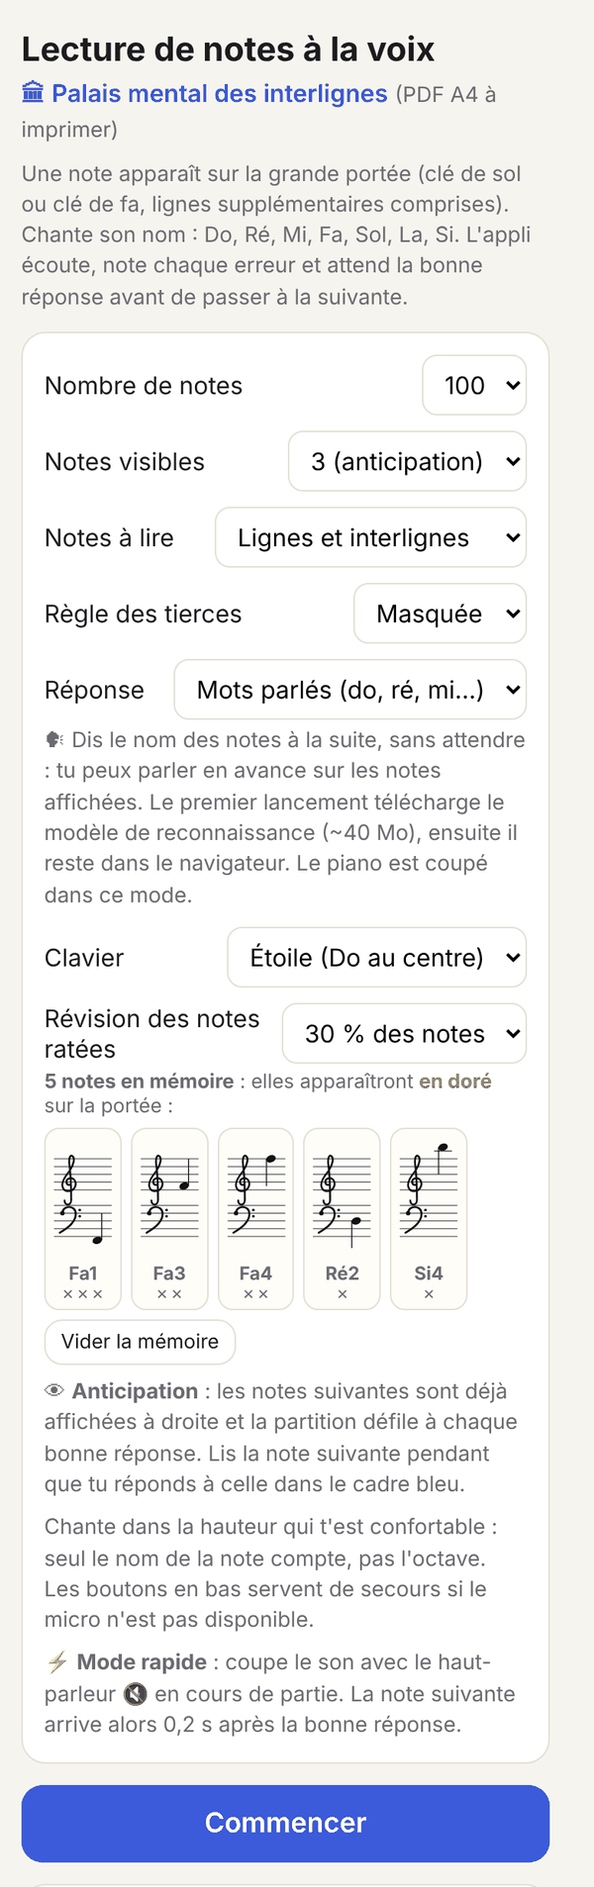
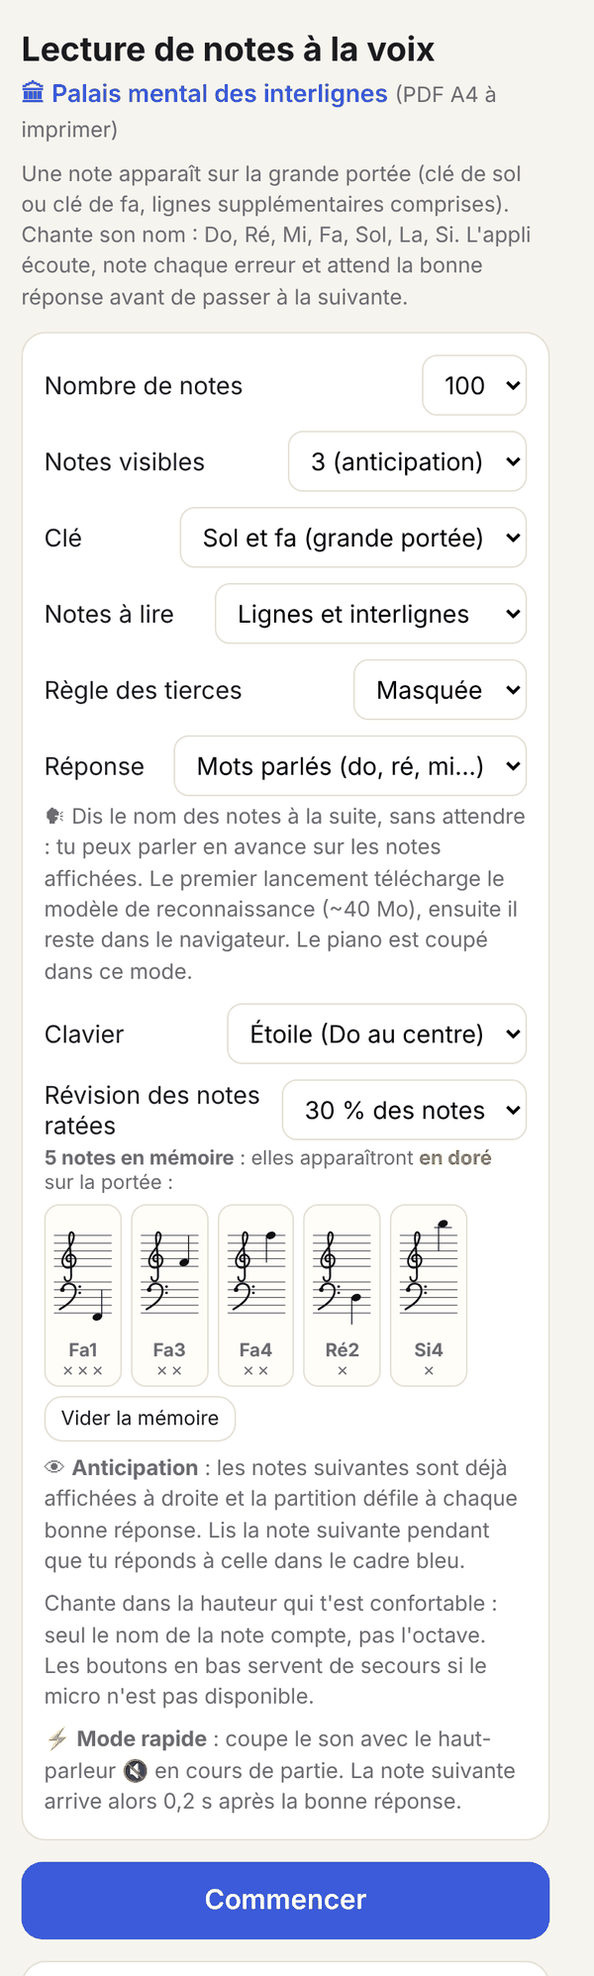
sol uniquement, fa uniquement ou les deux

Changed region(s): [[0.03, 0.0, 0.93, 0.99], [0.84, 0.495, 0.9, 0.5569]]

diff --git a/index.html b/index.html
@@ -51,6 +51,7 @@
   .tally b{color:var(--ink)}
   svg#staff{width:100%;height:auto;max-height:46vh;display:block;background:#fffdf8;border:1px solid var(--line);border-radius:16px}
   .ln{stroke:#2a2a2a;stroke-width:1.3}
+  .ln.dim{stroke:#d4d0c4}
   .nt{fill:#111;stroke:none}
   .stem{stroke:#111;stroke-width:1.8}
   .led{stroke:#111;stroke-width:1.5}
@@ -157,6 +158,14 @@
           <option value="2">2 (anticipation)</option>
           <option value="3">3 (anticipation)</option>
           <option value="4">4 (anticipation)</option>
+        </select>
+      </div>
+      <div class="row" style="margin-top:10px">
+        <label for="clef">Clé</label>
+        <select id="clef">
+          <option value="both">Sol et fa (grande portée)</option>
+          <option value="sol">Clé de sol seulement</option>
+          <option value="fa">Clé de fa seulement</option>
         </select>
       </div>
       <div class="row" style="margin-top:10px">
@@ -315,10 +324,12 @@ function ledgers(d){
 const isLine = d => Math.abs(d) % 2 === 0;
 // pos : 'all' (lignes et interlignes), 'lines' ou 'spaces'
 const posOk = (d, pos) => !pos || pos === 'all' || (pos === 'lines') === isLine(d);
-function pickNote(prevStep, rnd, pos){
+// clefSel : 'both' (grande portée), 'sol' ou 'fa'
+const clefOk = (clef, sel) => !sel || sel === 'both' || clef === sel;
+function pickNote(prevStep, rnd, pos, clefSel){
   rnd = rnd || Math.random;
   for(;;){
-    const clef = rnd() < 0.5 ? 'sol' : 'fa';
+    const clef = (clefSel === 'sol' || clefSel === 'fa') ? clefSel : (rnd() < 0.5 ? 'sol' : 'fa');
     const lo = clef==='sol' ? 0 : -14, hi = clef==='sol' ? 14 : 0;
     const d = lo + Math.floor(rnd()*(hi-lo+1));
     if(stepOf(d) !== prevStep && posOk(d, pos)) return {clef, d};
@@ -445,7 +456,7 @@ function makeWordStream(stableMs){
 (function(){
   const $ = id => document.getElementById(id);
   const REQ = 5;           // 5 mesures stables de 50 ms = 250 ms de note tenue
-  const HKEY = 'solfege.v1.games', SKEY = 'solfege.v1.sound', LKEY = 'solfege.v1.look', RKEY = 'solfege.v1.review', RPKEY = 'solfege.v1.reviewPct', KKEY = 'solfege.v1.kbd', AKEY = 'solfege.v1.answer', PKEY = 'solfege.v1.pos', RUKEY = 'solfege.v1.ruler';
+  const HKEY = 'solfege.v1.games', SKEY = 'solfege.v1.sound', LKEY = 'solfege.v1.look', RKEY = 'solfege.v1.review', RPKEY = 'solfege.v1.reviewPct', KKEY = 'solfege.v1.kbd', AKEY = 'solfege.v1.answer', PKEY = 'solfege.v1.pos', RUKEY = 'solfege.v1.ruler', CKEY = 'solfege.v1.clef';
   let S = null;            // session en cours
   let ctx = null, an = null, buf = null, stream = null, timer = null, clockTimer = null;
   let soundOn = true;
@@ -754,31 +765,35 @@ function makeWordStream(stableMs){
   }
 
   // Règle des tierces : la chaîne do mi sol si ré fa la do posée sur les lignes (ou les interlignes)
-  function rulerSvg(x, pos){
+  function rulerSvg(x, pos, clefSel){
     const onSpaces = pos === 'spaces';
     let r = `<rect x="${x}" y="8" width="34" height="220" rx="7" fill="#f3efe3" stroke="#e0d9c6"/>`;
     for(let d = -14; d <= 14; d++){
       if(isLine(d) === onSpaces) continue;
       const nm = NAMES[stepOf(d)], isDo = stepOf(d) === 0, yy = yOf(d);
+      if((clefSel === 'sol' && d < 0) || (clefSel === 'fa' && d > 0)) continue;   // seulement la clé travaillée
       r += `<line x1="${x+3}" x2="${x+7}" y1="${yy}" y2="${yy}" stroke="${isDo ? '#d62828' : '#b9b19c'}" stroke-width="1"/>`;
       r += `<text x="${x+20}" y="${yy+3.3}" text-anchor="middle" font-size="9.5" font-weight="${isDo ? 700 : 600}" fill="${isDo ? '#d62828' : '#3d3a33'}" font-family="system-ui,-apple-system,sans-serif">${nm}</text>`;
     }
     return r;
   }
 
-  function drawStaticStaff(look, ruler, pos){
+  function drawStaticStaff(look, ruler, pos, clefSel){
     ruler = ruler || 'off';
+    const dimSol = clefSel === 'fa', dimFa = clefSel === 'sol';   // la portée non travaillée est estompée
     let g = look > 1 ? `<rect id="cursor" x="${posX(0,look)-17}" y="6" width="34" height="224" rx="9"/>` : '';
     const X1 = 18, X2 = 302;
     [2,4,6,8,10,-2,-4,-6,-8,-10].forEach(d => {
-      g += `<line class="ln" x1="${X1}" x2="${X2}" y1="${yOf(d)}" y2="${yOf(d)}"/>`;
+      const dim = d > 0 ? dimSol : dimFa;
+      g += `<line class="ln${dim ? ' dim' : ''}" x1="${X1}" x2="${X2}" y1="${yOf(d)}" y2="${yOf(d)}"/>`;
     });
     g += `<line class="ln" x1="${X1}" x2="${X1}" y1="${yOf(10)}" y2="${yOf(-10)}" style="stroke-width:2"/>`;
     g += `<line class="ln" x1="${X2}" x2="${X2}" y1="${yOf(10)}" y2="${yOf(2)}"/><line class="ln" x1="${X2}" x2="${X2}" y1="${yOf(-2)}" y2="${yOf(-10)}"/>`;
-    g += `<g transform="translate(46 ${yOf(4)})"><path d="${TREBLE}" fill="none" stroke="#111" stroke-width="3.4" stroke-linecap="round" stroke-linejoin="round"/></g>`;
-    g += `<g transform="translate(42 ${yOf(-4)})"><path d="${BASS}" fill="none" stroke="#111" stroke-width="4" stroke-linecap="round"/><circle cx="-6" cy="0" r="5" fill="#111"/><circle cx="33" cy="-7" r="2.6" fill="#111"/><circle cx="33" cy="7" r="2.6" fill="#111"/></g>`;
+    g += `<g transform="translate(46 ${yOf(4)})"><path d="${TREBLE}" fill="none" stroke="${dimSol ? '#d4d0c4' : '#111'}" stroke-width="3.4" stroke-linecap="round" stroke-linejoin="round"/></g>`;
+    const cb = dimFa ? '#d4d0c4' : '#111';
+    g += `<g transform="translate(42 ${yOf(-4)})"><path d="${BASS}" fill="none" stroke="${cb}" stroke-width="4" stroke-linecap="round"/><circle cx="-6" cy="0" r="5" fill="${cb}"/><circle cx="33" cy="-7" r="2.6" fill="${cb}"/><circle cx="33" cy="7" r="2.6" fill="${cb}"/></g>`;
     const W = ruler === 'off' ? 320 : 358, off = ruler === 'left' ? 38 : 0;
-    const rul = ruler === 'left' ? rulerSvg(2, pos) : ruler === 'right' ? rulerSvg(322, pos) : '';
+    const rul = ruler === 'left' ? rulerSvg(2, pos, clefSel) : ruler === 'right' ? rulerSvg(322, pos, clefSel) : '';
     $('staff').setAttribute('viewBox', `0 0 ${W} 236`);
     $('staff').innerHTML = rul + `<g transform="translate(${off} 0)">` + g + `<g id="note" class="${look>1?'anim':''}"></g></g>`;
   }
@@ -803,7 +818,7 @@ function makeWordStream(stableMs){
   function pushNote(){
     const last = S.queue.length ? S.queue[S.queue.length-1].note : S.prevNote;
     const prevStep = last ? stepOf(last.d) : -1;
-    const note = (S.plan.has(S.issued) && pickReview(S.mem, prevStep)) || pickNote(prevStep, null, S.pos);
+    const note = (S.plan.has(S.issued) && pickReview(S.mem, prevStep)) || pickNote(prevStep, null, S.pos, S.clef);
     const el = document.createElementNS('http://www.w3.org/2000/svg', 'g');
     el.innerHTML = noteSvg(note);
     const q = {note, el};
@@ -1003,7 +1018,7 @@ function makeWordStream(stableMs){
     const secs = recent.map(g => Math.round(g.avg/100)/10);
     const best = Math.max(...H.map(g => g.pct));
     const rows = H.slice(-8).reverse().map(g =>
-      `<tr><td>${fmtDate(g.t)}${g.fast ? ' ⚡' : ''}${(g.look||1) > 1 ? ' 👁' + g.look : ''}${g.rp ? ' 🔁' : ''}${g.ans === 'words' ? ' 🗣' : ''}${g.pos === 'lines' ? ' ≡' : g.pos === 'spaces' ? ' ◌' : ''}${g.ruler && g.ruler !== 'off' ? ' 📏' : ''}</td><td class="n">${g.n}</td><td class="n"><b>${g.pct} %</b></td><td class="n">${fmtTime(g.ms)}</td><td class="n">${(g.avg/1000).toFixed(1)} s</td></tr>`).join('');
+      `<tr><td>${fmtDate(g.t)}${g.fast ? ' ⚡' : ''}${(g.look||1) > 1 ? ' 👁' + g.look : ''}${g.rp ? ' 🔁' : ''}${g.ans === 'words' ? ' 🗣' : ''}${g.pos === 'lines' ? ' ≡' : g.pos === 'spaces' ? ' ◌' : ''}${g.ruler && g.ruler !== 'off' ? ' 📏' : ''}${g.clef === 'sol' ? ' (sol)' : g.clef === 'fa' ? ' (fa)' : ''}</td><td class="n">${g.n}</td><td class="n"><b>${g.pct} %</b></td><td class="n">${fmtTime(g.ms)}</td><td class="n">${(g.avg/1000).toFixed(1)} s</td></tr>`).join('');
     el.innerHTML = `
       <h2>Mes progrès</h2>
       <div class="mute">${H.length} partie${H.length>1?'s':''} · meilleur score : <b>${best} %</b></div>
@@ -1011,7 +1026,7 @@ function makeWordStream(stableMs){
       ${spark(pcts, 0, 100, ' %', '#3b5bdb')}
       <div class="charttitle">Temps moyen par note (plus bas = mieux)</div>
       ${spark(secs, 0, Math.max(...secs)*1.2 || 1, ' s', '#1a9b4b')}
-      <div class="mute" style="font-size:12px;margin-top:8px">⚡ son coupé · 👁 anticipation · 🔁 révision des notes ratées · 🗣 mots parlés · ≡ lignes seules · ◌ interlignes seuls · 📏 règle</div>
+      <div class="mute" style="font-size:12px;margin-top:8px">⚡ son coupé · 👁 anticipation · 🔁 révision des notes ratées · 🗣 mots parlés · ≡ lignes seules · ◌ interlignes seuls · 📏 règle · (sol)/(fa) une seule clé</div>
       <div class="tw"><table><tr><th>Date</th><th class="n">Notes</th><th class="n">Score</th><th class="n">Durée</th><th class="n">Moy.</th></tr>${rows}</table></div>
       <div style="margin-top:10px"><button class="ghost small" id="clear">Effacer l'historique</button></div>`;
     el.hidden = false;
@@ -1029,7 +1044,7 @@ function makeWordStream(stableMs){
     const res = S.res;
     const fast = res.length > 0 && S.fastN*2 >= res.length;   // majorité des notes jouées sans son
     const look = S.look || 1;
-    const ans = S.mode || 'sing', wMiss = S.wMiss || 0, pos = S.pos || 'all', ruler = S.ruler || 'off';
+    const ans = S.mode || 'sing', wMiss = S.wMiss || 0, pos = S.pos || 'all', ruler = S.ruler || 'off', clef = S.clef || 'both';
     const rp = S.rp || 0, memBefore = S.mem || [];
     S = null;
     stopAudio();
@@ -1044,12 +1059,12 @@ function makeWordStream(stableMs){
     }
     const p = pct(st.first, st.n);
     const hist = loadHist();
-    const sameMode = hist.filter(g => !!g.fast === fast && (g.look||1) === look && (g.ans === 'words') === (ans === 'words') && (g.pos || 'all') === pos);   // même mode : son/rapide et nombre de notes visibles
+    const sameMode = hist.filter(g => !!g.fast === fast && (g.look||1) === look && (g.ans === 'words') === (ans === 'words') && (g.pos || 'all') === pos && (g.clef || 'both') === clef);   // même mode : son/rapide et nombre de notes visibles
     const prev = sameMode.length ? sameMode[sameMode.length-1] : null;
     const bestBefore = sameMode.length ? Math.max(...sameMode.map(g => g.pct)) : -1;
-    const modeTxt = (pos === 'lines' ? ' sur les lignes' : pos === 'spaces' ? ' sur les interlignes' : '') + (ans === 'words' ? ' aux mots parlés' : '') + (fast ? ' en mode rapide' : '') + (look > 1 ? ` en anticipation (${look} notes)` : '');
+    const modeTxt = (clef === 'sol' ? ' en clé de sol' : clef === 'fa' ? ' en clé de fa' : '') + (pos === 'lines' ? ' sur les lignes' : pos === 'spaces' ? ' sur les interlignes' : '') + (ans === 'words' ? ' aux mots parlés' : '') + (fast ? ' en mode rapide' : '') + (look > 1 ? ` en anticipation (${look} notes)` : '');
     let saved = false;
-    if(st.n >= 5){ hist.push({t:Date.now(), n:st.n, first:st.first, errs:st.errs, ms:Math.round(elapsed), avg:Math.round(st.avgMs), pct:p, fast, look, ans, wMiss, pos, ruler, rp, rvN:st.byKind[0].n, rvFirst:st.byKind[0].first}); saved = saveHist(hist); }
+    if(st.n >= 5){ hist.push({t:Date.now(), n:st.n, first:st.first, errs:st.errs, ms:Math.round(elapsed), avg:Math.round(st.avgMs), pct:p, fast, look, ans, wMiss, pos, ruler, clef, rp, rvN:st.byKind[0].n, rvFirst:st.byKind[0].first}); saved = saveHist(hist); }
     // mémoire des notes ratées (mise à jour même si l'option est désactivée)
     const upd = updateMemory(memBefore, res);
     saveMem(upd.mem);
@@ -1123,7 +1138,8 @@ function makeWordStream(stableMs){
     const look = Math.min(4, Math.max(1, parseInt($('look').value, 10) || 1));
     const rp = Math.max(0, Math.min(50, parseInt($('review').value, 10) || 0));
     const pos = $('pos').value, ruler = $('ruler').value;
-    const mem = loadMem().filter(m => posOk(m.d, pos));      // révision : seulement les positions travaillées
+    const clef = $('clef').value;
+    const mem = loadMem().filter(m => posOk(m.d, pos) && clefOk(m.clef, clef));   // révision : seulement ce qui est travaillé
     let mode = $('answer').value;
     $('startMsg').textContent = '';
     unlockAudio();                 // doit être appelé directement dans le geste de l'utilisateur
@@ -1154,11 +1170,11 @@ function makeWordStream(stableMs){
     try{ localStorage.setItem(AKEY, $('answer').value); }catch(e){}
     S = {n, mic, mode, wq:[], wIgnore:false, wMiss:0, draining:false, res:[], cur:null, totalErr:0, lastOk:null, locked:false, muteUntil:0, fastN:0, elapsed:0, lastTick:performance.now(),
          look, queue:[], issued:0, prevNote:null, started:false,
-         rp, mem, pos, ruler, plan: rp ? makePlan(n, rp, mem.length) : new Set()};
-    try{ localStorage.setItem(PKEY, pos); localStorage.setItem(RUKEY, ruler); }catch(e){}
+         rp, mem, pos, ruler, clef, plan: rp ? makePlan(n, rp, mem.length) : new Set()};
+    try{ localStorage.setItem(PKEY, pos); localStorage.setItem(RUKEY, ruler); localStorage.setItem(CKEY, clef); }catch(e){}
     try{ localStorage.setItem(RPKEY, String(rp)); }catch(e){}
     try{ localStorage.setItem(LKEY, String(look)); }catch(e){}
-    drawStaticStaff(look, ruler, pos);
+    drawStaticStaff(look, ruler, pos, clef);
     $('tot').textContent = n; $('okc').textContent = 0; $('errc').textContent = 0; $('clock').textContent = '⏱ 0:00';
     $('start').hidden = true; $('game').hidden = false;
     fillQueue(); S.started = true; startCurrent(true);
@@ -1199,6 +1215,8 @@ function makeWordStream(stableMs){
   try{ const v = localStorage.getItem(RUKEY); if(['off','left','right'].includes(v)) $('ruler').value = v; }catch(e){}
   const paintRuler = () => { $('rulerHint').hidden = $('ruler').value === 'off'; };
   $('ruler').onchange = () => { try{ localStorage.setItem(RUKEY, $('ruler').value); }catch(e){} paintRuler(); };
+  try{ const v = localStorage.getItem(CKEY); if(['both','sol','fa'].includes(v)) $('clef').value = v; }catch(e){}
+  $('clef').onchange = () => { try{ localStorage.setItem(CKEY, $('clef').value); }catch(e){} };
   $('pos').onchange = () => { try{ localStorage.setItem(PKEY, $('pos').value); }catch(e){} };
   paintRuler();
   $('keys').addEventListener('click', e => { const b = e.target.closest('button'); if(b) answer(+b.dataset.s); });

diff --git a/solfege.html b/solfege.html
@@ -51,6 +51,7 @@
   .tally b{color:var(--ink)}
   svg#staff{width:100%;height:auto;max-height:46vh;display:block;background:#fffdf8;border:1px solid var(--line);border-radius:16px}
   .ln{stroke:#2a2a2a;stroke-width:1.3}
+  .ln.dim{stroke:#d4d0c4}
   .nt{fill:#111;stroke:none}
   .stem{stroke:#111;stroke-width:1.8}
   .led{stroke:#111;stroke-width:1.5}
@@ -157,6 +158,14 @@
           <option value="2">2 (anticipation)</option>
           <option value="3">3 (anticipation)</option>
           <option value="4">4 (anticipation)</option>
+        </select>
+      </div>
+      <div class="row" style="margin-top:10px">
+        <label for="clef">Clé</label>
+        <select id="clef">
+          <option value="both">Sol et fa (grande portée)</option>
+          <option value="sol">Clé de sol seulement</option>
+          <option value="fa">Clé de fa seulement</option>
         </select>
       </div>
       <div class="row" style="margin-top:10px">
@@ -315,10 +324,12 @@ function ledgers(d){
 const isLine = d => Math.abs(d) % 2 === 0;
 // pos : 'all' (lignes et interlignes), 'lines' ou 'spaces'
 const posOk = (d, pos) => !pos || pos === 'all' || (pos === 'lines') === isLine(d);
-function pickNote(prevStep, rnd, pos){
+// clefSel : 'both' (grande portée), 'sol' ou 'fa'
+const clefOk = (clef, sel) => !sel || sel === 'both' || clef === sel;
+function pickNote(prevStep, rnd, pos, clefSel){
   rnd = rnd || Math.random;
   for(;;){
-    const clef = rnd() < 0.5 ? 'sol' : 'fa';
+    const clef = (clefSel === 'sol' || clefSel === 'fa') ? clefSel : (rnd() < 0.5 ? 'sol' : 'fa');
     const lo = clef==='sol' ? 0 : -14, hi = clef==='sol' ? 14 : 0;
     const d = lo + Math.floor(rnd()*(hi-lo+1));
     if(stepOf(d) !== prevStep && posOk(d, pos)) return {clef, d};
@@ -445,7 +456,7 @@ function makeWordStream(stableMs){
 (function(){
   const $ = id => document.getElementById(id);
   const REQ = 5;           // 5 mesures stables de 50 ms = 250 ms de note tenue
-  const HKEY = 'solfege.v1.games', SKEY = 'solfege.v1.sound', LKEY = 'solfege.v1.look', RKEY = 'solfege.v1.review', RPKEY = 'solfege.v1.reviewPct', KKEY = 'solfege.v1.kbd', AKEY = 'solfege.v1.answer', PKEY = 'solfege.v1.pos', RUKEY = 'solfege.v1.ruler';
+  const HKEY = 'solfege.v1.games', SKEY = 'solfege.v1.sound', LKEY = 'solfege.v1.look', RKEY = 'solfege.v1.review', RPKEY = 'solfege.v1.reviewPct', KKEY = 'solfege.v1.kbd', AKEY = 'solfege.v1.answer', PKEY = 'solfege.v1.pos', RUKEY = 'solfege.v1.ruler', CKEY = 'solfege.v1.clef';
   let S = null;            // session en cours
   let ctx = null, an = null, buf = null, stream = null, timer = null, clockTimer = null;
   let soundOn = true;
@@ -754,31 +765,35 @@ function makeWordStream(stableMs){
   }
 
   // Règle des tierces : la chaîne do mi sol si ré fa la do posée sur les lignes (ou les interlignes)
-  function rulerSvg(x, pos){
+  function rulerSvg(x, pos, clefSel){
     const onSpaces = pos === 'spaces';
     let r = `<rect x="${x}" y="8" width="34" height="220" rx="7" fill="#f3efe3" stroke="#e0d9c6"/>`;
     for(let d = -14; d <= 14; d++){
       if(isLine(d) === onSpaces) continue;
       const nm = NAMES[stepOf(d)], isDo = stepOf(d) === 0, yy = yOf(d);
+      if((clefSel === 'sol' && d < 0) || (clefSel === 'fa' && d > 0)) continue;   // seulement la clé travaillée
       r += `<line x1="${x+3}" x2="${x+7}" y1="${yy}" y2="${yy}" stroke="${isDo ? '#d62828' : '#b9b19c'}" stroke-width="1"/>`;
       r += `<text x="${x+20}" y="${yy+3.3}" text-anchor="middle" font-size="9.5" font-weight="${isDo ? 700 : 600}" fill="${isDo ? '#d62828' : '#3d3a33'}" font-family="system-ui,-apple-system,sans-serif">${nm}</text>`;
     }
     return r;
   }
 
-  function drawStaticStaff(look, ruler, pos){
+  function drawStaticStaff(look, ruler, pos, clefSel){
     ruler = ruler || 'off';
+    const dimSol = clefSel === 'fa', dimFa = clefSel === 'sol';   // la portée non travaillée est estompée
     let g = look > 1 ? `<rect id="cursor" x="${posX(0,look)-17}" y="6" width="34" height="224" rx="9"/>` : '';
     const X1 = 18, X2 = 302;
     [2,4,6,8,10,-2,-4,-6,-8,-10].forEach(d => {
-      g += `<line class="ln" x1="${X1}" x2="${X2}" y1="${yOf(d)}" y2="${yOf(d)}"/>`;
+      const dim = d > 0 ? dimSol : dimFa;
+      g += `<line class="ln${dim ? ' dim' : ''}" x1="${X1}" x2="${X2}" y1="${yOf(d)}" y2="${yOf(d)}"/>`;
     });
     g += `<line class="ln" x1="${X1}" x2="${X1}" y1="${yOf(10)}" y2="${yOf(-10)}" style="stroke-width:2"/>`;
     g += `<line class="ln" x1="${X2}" x2="${X2}" y1="${yOf(10)}" y2="${yOf(2)}"/><line class="ln" x1="${X2}" x2="${X2}" y1="${yOf(-2)}" y2="${yOf(-10)}"/>`;
-    g += `<g transform="translate(46 ${yOf(4)})"><path d="${TREBLE}" fill="none" stroke="#111" stroke-width="3.4" stroke-linecap="round" stroke-linejoin="round"/></g>`;
-    g += `<g transform="translate(42 ${yOf(-4)})"><path d="${BASS}" fill="none" stroke="#111" stroke-width="4" stroke-linecap="round"/><circle cx="-6" cy="0" r="5" fill="#111"/><circle cx="33" cy="-7" r="2.6" fill="#111"/><circle cx="33" cy="7" r="2.6" fill="#111"/></g>`;
+    g += `<g transform="translate(46 ${yOf(4)})"><path d="${TREBLE}" fill="none" stroke="${dimSol ? '#d4d0c4' : '#111'}" stroke-width="3.4" stroke-linecap="round" stroke-linejoin="round"/></g>`;
+    const cb = dimFa ? '#d4d0c4' : '#111';
+    g += `<g transform="translate(42 ${yOf(-4)})"><path d="${BASS}" fill="none" stroke="${cb}" stroke-width="4" stroke-linecap="round"/><circle cx="-6" cy="0" r="5" fill="${cb}"/><circle cx="33" cy="-7" r="2.6" fill="${cb}"/><circle cx="33" cy="7" r="2.6" fill="${cb}"/></g>`;
     const W = ruler === 'off' ? 320 : 358, off = ruler === 'left' ? 38 : 0;
-    const rul = ruler === 'left' ? rulerSvg(2, pos) : ruler === 'right' ? rulerSvg(322, pos) : '';
+    const rul = ruler === 'left' ? rulerSvg(2, pos, clefSel) : ruler === 'right' ? rulerSvg(322, pos, clefSel) : '';
     $('staff').setAttribute('viewBox', `0 0 ${W} 236`);
     $('staff').innerHTML = rul + `<g transform="translate(${off} 0)">` + g + `<g id="note" class="${look>1?'anim':''}"></g></g>`;
   }
@@ -803,7 +818,7 @@ function makeWordStream(stableMs){
   function pushNote(){
     const last = S.queue.length ? S.queue[S.queue.length-1].note : S.prevNote;
     const prevStep = last ? stepOf(last.d) : -1;
-    const note = (S.plan.has(S.issued) && pickReview(S.mem, prevStep)) || pickNote(prevStep, null, S.pos);
+    const note = (S.plan.has(S.issued) && pickReview(S.mem, prevStep)) || pickNote(prevStep, null, S.pos, S.clef);
     const el = document.createElementNS('http://www.w3.org/2000/svg', 'g');
     el.innerHTML = noteSvg(note);
     const q = {note, el};
@@ -1003,7 +1018,7 @@ function makeWordStream(stableMs){
     const secs = recent.map(g => Math.round(g.avg/100)/10);
     const best = Math.max(...H.map(g => g.pct));
     const rows = H.slice(-8).reverse().map(g =>
-      `<tr><td>${fmtDate(g.t)}${g.fast ? ' ⚡' : ''}${(g.look||1) > 1 ? ' 👁' + g.look : ''}${g.rp ? ' 🔁' : ''}${g.ans === 'words' ? ' 🗣' : ''}${g.pos === 'lines' ? ' ≡' : g.pos === 'spaces' ? ' ◌' : ''}${g.ruler && g.ruler !== 'off' ? ' 📏' : ''}</td><td class="n">${g.n}</td><td class="n"><b>${g.pct} %</b></td><td class="n">${fmtTime(g.ms)}</td><td class="n">${(g.avg/1000).toFixed(1)} s</td></tr>`).join('');
+      `<tr><td>${fmtDate(g.t)}${g.fast ? ' ⚡' : ''}${(g.look||1) > 1 ? ' 👁' + g.look : ''}${g.rp ? ' 🔁' : ''}${g.ans === 'words' ? ' 🗣' : ''}${g.pos === 'lines' ? ' ≡' : g.pos === 'spaces' ? ' ◌' : ''}${g.ruler && g.ruler !== 'off' ? ' 📏' : ''}${g.clef === 'sol' ? ' (sol)' : g.clef === 'fa' ? ' (fa)' : ''}</td><td class="n">${g.n}</td><td class="n"><b>${g.pct} %</b></td><td class="n">${fmtTime(g.ms)}</td><td class="n">${(g.avg/1000).toFixed(1)} s</td></tr>`).join('');
     el.innerHTML = `
       <h2>Mes progrès</h2>
       <div class="mute">${H.length} partie${H.length>1?'s':''} · meilleur score : <b>${best} %</b></div>
@@ -1011,7 +1026,7 @@ function makeWordStream(stableMs){
       ${spark(pcts, 0, 100, ' %', '#3b5bdb')}
       <div class="charttitle">Temps moyen par note (plus bas = mieux)</div>
       ${spark(secs, 0, Math.max(...secs)*1.2 || 1, ' s', '#1a9b4b')}
-      <div class="mute" style="font-size:12px;margin-top:8px">⚡ son coupé · 👁 anticipation · 🔁 révision des notes ratées · 🗣 mots parlés · ≡ lignes seules · ◌ interlignes seuls · 📏 règle</div>
+      <div class="mute" style="font-size:12px;margin-top:8px">⚡ son coupé · 👁 anticipation · 🔁 révision des notes ratées · 🗣 mots parlés · ≡ lignes seules · ◌ interlignes seuls · 📏 règle · (sol)/(fa) une seule clé</div>
       <div class="tw"><table><tr><th>Date</th><th class="n">Notes</th><th class="n">Score</th><th class="n">Durée</th><th class="n">Moy.</th></tr>${rows}</table></div>
       <div style="margin-top:10px"><button class="ghost small" id="clear">Effacer l'historique</button></div>`;
     el.hidden = false;
@@ -1029,7 +1044,7 @@ function makeWordStream(stableMs){
     const res = S.res;
     const fast = res.length > 0 && S.fastN*2 >= res.length;   // majorité des notes jouées sans son
     const look = S.look || 1;
-    const ans = S.mode || 'sing', wMiss = S.wMiss || 0, pos = S.pos || 'all', ruler = S.ruler || 'off';
+    const ans = S.mode || 'sing', wMiss = S.wMiss || 0, pos = S.pos || 'all', ruler = S.ruler || 'off', clef = S.clef || 'both';
     const rp = S.rp || 0, memBefore = S.mem || [];
     S = null;
     stopAudio();
@@ -1044,12 +1059,12 @@ function makeWordStream(stableMs){
     }
     const p = pct(st.first, st.n);
     const hist = loadHist();
-    const sameMode = hist.filter(g => !!g.fast === fast && (g.look||1) === look && (g.ans === 'words') === (ans === 'words') && (g.pos || 'all') === pos);   // même mode : son/rapide et nombre de notes visibles
+    const sameMode = hist.filter(g => !!g.fast === fast && (g.look||1) === look && (g.ans === 'words') === (ans === 'words') && (g.pos || 'all') === pos && (g.clef || 'both') === clef);   // même mode : son/rapide et nombre de notes visibles
     const prev = sameMode.length ? sameMode[sameMode.length-1] : null;
     const bestBefore = sameMode.length ? Math.max(...sameMode.map(g => g.pct)) : -1;
-    const modeTxt = (pos === 'lines' ? ' sur les lignes' : pos === 'spaces' ? ' sur les interlignes' : '') + (ans === 'words' ? ' aux mots parlés' : '') + (fast ? ' en mode rapide' : '') + (look > 1 ? ` en anticipation (${look} notes)` : '');
+    const modeTxt = (clef === 'sol' ? ' en clé de sol' : clef === 'fa' ? ' en clé de fa' : '') + (pos === 'lines' ? ' sur les lignes' : pos === 'spaces' ? ' sur les interlignes' : '') + (ans === 'words' ? ' aux mots parlés' : '') + (fast ? ' en mode rapide' : '') + (look > 1 ? ` en anticipation (${look} notes)` : '');
     let saved = false;
-    if(st.n >= 5){ hist.push({t:Date.now(), n:st.n, first:st.first, errs:st.errs, ms:Math.round(elapsed), avg:Math.round(st.avgMs), pct:p, fast, look, ans, wMiss, pos, ruler, rp, rvN:st.byKind[0].n, rvFirst:st.byKind[0].first}); saved = saveHist(hist); }
+    if(st.n >= 5){ hist.push({t:Date.now(), n:st.n, first:st.first, errs:st.errs, ms:Math.round(elapsed), avg:Math.round(st.avgMs), pct:p, fast, look, ans, wMiss, pos, ruler, clef, rp, rvN:st.byKind[0].n, rvFirst:st.byKind[0].first}); saved = saveHist(hist); }
     // mémoire des notes ratées (mise à jour même si l'option est désactivée)
     const upd = updateMemory(memBefore, res);
     saveMem(upd.mem);
@@ -1123,7 +1138,8 @@ function makeWordStream(stableMs){
     const look = Math.min(4, Math.max(1, parseInt($('look').value, 10) || 1));
     const rp = Math.max(0, Math.min(50, parseInt($('review').value, 10) || 0));
     const pos = $('pos').value, ruler = $('ruler').value;
-    const mem = loadMem().filter(m => posOk(m.d, pos));      // révision : seulement les positions travaillées
+    const clef = $('clef').value;
+    const mem = loadMem().filter(m => posOk(m.d, pos) && clefOk(m.clef, clef));   // révision : seulement ce qui est travaillé
     let mode = $('answer').value;
     $('startMsg').textContent = '';
     unlockAudio();                 // doit être appelé directement dans le geste de l'utilisateur
@@ -1154,11 +1170,11 @@ function makeWordStream(stableMs){
     try{ localStorage.setItem(AKEY, $('answer').value); }catch(e){}
     S = {n, mic, mode, wq:[], wIgnore:false, wMiss:0, draining:false, res:[], cur:null, totalErr:0, lastOk:null, locked:false, muteUntil:0, fastN:0, elapsed:0, lastTick:performance.now(),
          look, queue:[], issued:0, prevNote:null, started:false,
-         rp, mem, pos, ruler, plan: rp ? makePlan(n, rp, mem.length) : new Set()};
-    try{ localStorage.setItem(PKEY, pos); localStorage.setItem(RUKEY, ruler); }catch(e){}
+         rp, mem, pos, ruler, clef, plan: rp ? makePlan(n, rp, mem.length) : new Set()};
+    try{ localStorage.setItem(PKEY, pos); localStorage.setItem(RUKEY, ruler); localStorage.setItem(CKEY, clef); }catch(e){}
     try{ localStorage.setItem(RPKEY, String(rp)); }catch(e){}
     try{ localStorage.setItem(LKEY, String(look)); }catch(e){}
-    drawStaticStaff(look, ruler, pos);
+    drawStaticStaff(look, ruler, pos, clef);
     $('tot').textContent = n; $('okc').textContent = 0; $('errc').textContent = 0; $('clock').textContent = '⏱ 0:00';
     $('start').hidden = true; $('game').hidden = false;
     fillQueue(); S.started = true; startCurrent(true);
@@ -1199,6 +1215,8 @@ function makeWordStream(stableMs){
   try{ const v = localStorage.getItem(RUKEY); if(['off','left','right'].includes(v)) $('ruler').value = v; }catch(e){}
   const paintRuler = () => { $('rulerHint').hidden = $('ruler').value === 'off'; };
   $('ruler').onchange = () => { try{ localStorage.setItem(RUKEY, $('ruler').value); }catch(e){} paintRuler(); };
+  try{ const v = localStorage.getItem(CKEY); if(['both','sol','fa'].includes(v)) $('clef').value = v; }catch(e){}
+  $('clef').onchange = () => { try{ localStorage.setItem(CKEY, $('clef').value); }catch(e){} };
   $('pos').onchange = () => { try{ localStorage.setItem(PKEY, $('pos').value); }catch(e){} };
   paintRuler();
   $('keys').addEventListener('click', e => { const b = e.target.closest('button'); if(b) answer(+b.dataset.s); });

diff --git a/README.md b/README.md
@@ -20,7 +20,7 @@ Que tu débutes et confondes encore le Fa et le La en clé de fa, ou que tu lise
 
 - **Sur la grande portée, comme au piano** : clé de sol et clé de fa, avec les lignes supplémentaires au-dessus, au-dessous et autour du Do central (du Do1 au Do5).
 - **Tu réponds comme tu veux** : avec des boutons, en **chantant** la note, ou simplement en **disant son nom** (« do, ré, mi… »).
-- **Elle s'adapte à ton niveau** : règle d'aide pour débuter, lignes ou interlignes seulement, puis anticipation jusqu'à 4 notes à l'avance pour les plus rapides.
+- **Elle s'adapte à ton niveau** : règle d'aide pour débuter, une seule clé, lignes ou interlignes seulement, puis anticipation jusqu'à 4 notes à l'avance pour les plus rapides.
 - **Elle retient tes erreurs** et te les repropose à la partie suivante, jusqu'à ce qu'elles soient corrigées.
 - **Tu vois tes progrès** : score, temps par note, courbes et historique.
 - **Tout reste chez toi** : un seul fichier, aucun compte, aucune donnée envoyée sur Internet (même la reconnaissance vocale tourne dans ton navigateur).
@@ -39,13 +39,17 @@ Une note apparaît, tu donnes son nom. En cas d'erreur, la note passe en rouge e
   <img src="docs/screenshots/03-erreur.png" width="280" alt="Erreur : la note passe en rouge">
 </p>
 
-### La règle des tierces et le travail ciblé
+### Le travail ciblé : une clé, les lignes ou les interlignes, et la règle des tierces
 
 - **Règle des tierces** (à gauche ou à droite) : elle rappelle la chaîne **do mi sol si ré fa la do**, posée sur les lignes, avec les Do en rouge. C'est l'astuce qui fait tout : chaque ligne est une tierce au-dessus de la précédente. Sur les interlignes, la chaîne continue de la même façon.
-- **Notes à lire** : *lignes et interlignes*, *lignes seulement* ou *interlignes seulement*, pour travailler un point faible à la fois.
+- **Clé** : *sol et fa* (grande portée), *clé de sol seulement* ou *clé de fa seulement*. La portée non travaillée reste visible mais estompée, pour garder tes repères.
+- **Notes à lire** : *lignes et interlignes*, *lignes seulement* ou *interlignes seulement*.
+- **Tout se combine** : par exemple clé de sol + interlignes seulement + règle à droite pour ne travailler que les interlignes de la clé de sol. La règle, la révision des notes ratées, les statistiques et l'historique suivent automatiquement ta sélection.
 
 <p align="center">
   <img src="docs/screenshots/07-regle-lignes.png" width="280" alt="Règle des tierces à gauche, lignes seulement">
+  &nbsp;&nbsp;
+  <img src="docs/screenshots/11-cle-sol-interlignes.png" width="280" alt="Clé de sol seulement, interlignes, règle à droite">
 </p>
 
 ### Le palais mental des interlignes
@@ -100,7 +104,7 @@ Chaque note ratée est mémorisée à sa position exacte sur la portée. Avec l'
 
 ## 📊 Tes progrès, partie après partie
 
-À la fin de chaque partie : score du premier coup, temps total et temps moyen par note, erreurs par nom de note, par clé, lignes et interlignes, notes corrigées et notes encore ratées. Tu es aussi comparé à **ta partie précédente jouée dans le même mode**, pour des progrès qui veulent dire quelque chose.
+À la fin de chaque partie : score du premier coup, temps total et temps moyen par note, erreurs par nom de note, par clé, lignes et interlignes, notes corrigées et notes encore ratées. Tu es aussi comparé à **ta partie précédente jouée dans le même mode** (mêmes clés, mêmes positions, même façon de répondre…), pour des progrès qui veulent dire quelque chose.
 
 L'écran d'accueil garde l'historique avec deux courbes : ton score qui monte et ton temps par note qui descend.
 
@@ -122,6 +126,7 @@ L'écran d'accueil garde l'historique avec deux courbes : ton score qui monte et
 |---|---|
 | Nombre de notes | 10, 25, 50 ou 100 |
 | Notes visibles | 1 (classique) à 4 (anticipation) |
+| Clé | sol et fa (grande portée), clé de sol seulement, clé de fa seulement |
 | Notes à lire | lignes et interlignes, lignes seulement, interlignes seulement |
 | Règle des tierces | masquée, à gauche, à droite |
 | Réponse | boutons seulement, voix chantée (hauteur), mots parlés |
